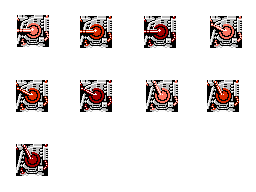
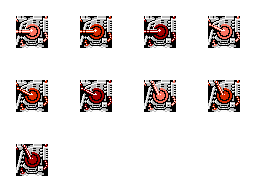
Fixed turret's animation

diff --git a/Contra/2DGame/ContraGame/ContraGame/Turret.cpp b/Contra/2DGame/ContraGame/ContraGame/Turret.cpp
@@ -19,69 +19,69 @@ enum PlayerAnims
 void Turret::init(const glm::ivec2 &tileMapPos, ShaderProgram &shaderProgram)
 {
 	bJumping = false;
-	spritesheet.loadFromFile("images/turret2.png", TEXTURE_PIXEL_FORMAT_RGBA);
-	sprite = Sprite::createSprite(glm::ivec2(64, 64), glm::vec2(0.111111111111111f, 0.25f), &spritesheet, &shaderProgram);
-	sprite->setNumberAnimations(12);
+	spritesheet.loadFromFile("images/turret3.png", TEXTURE_PIXEL_FORMAT_RGBA);
+	sprite = Sprite::createSprite(glm::ivec2(64, 64), glm::vec2(1 / 8.f, 1 / 8.f), &spritesheet, &shaderProgram);
+	sprite->setNumberAnimations(18);
 
 	sprite->setAnimationSpeed(DEGREE_0, 8);
-	sprite->addKeyframe(DEGREE_0, glm::vec2(0.f, 0.f));
-	sprite->addKeyframe(DEGREE_0, glm::vec2(0.11f, 0.f));
-	sprite->addKeyframe(DEGREE_0, glm::vec2(0.22f, 0.f));
+	sprite->addKeyframe(DEGREE_0, glm::vec2(0 / 8.f, 0 / 8.f));
+	sprite->addKeyframe(DEGREE_0, glm::vec2(1 / 8.f, 0 / 8.f));
+	sprite->addKeyframe(DEGREE_0, glm::vec2(2 / 8.f, 0 / 8.f));
 
 	sprite->setAnimationSpeed(DEGREE_30, 8);
-	sprite->addKeyframe(DEGREE_30, glm::vec2(0.66f, 0.75f));
-	sprite->addKeyframe(DEGREE_30, glm::vec2(0.77f, 0.75f));
-	sprite->addKeyframe(DEGREE_30, glm::vec2(0.88f, 0.75f));
+	sprite->addKeyframe(DEGREE_30, glm::vec2(1 / 8.f, 4 / 8.f));
+	sprite->addKeyframe(DEGREE_30, glm::vec2(2 / 8.f, 4 / 8.f));
+	sprite->addKeyframe(DEGREE_30, glm::vec2(3 / 8.f, 4 / 8.f));
 
 	sprite->setAnimationSpeed(DEGREE_50, 8);
-	sprite->addKeyframe(DEGREE_50, glm::vec2(0.33f, 0.75f));
-	sprite->addKeyframe(DEGREE_50, glm::vec2(0.44f, 0.75f));
-	sprite->addKeyframe(DEGREE_50, glm::vec2(0.55f, 0.75f));
+	sprite->addKeyframe(DEGREE_50, glm::vec2(6 / 8.f, 3 / 8.f));
+	sprite->addKeyframe(DEGREE_50, glm::vec2(7 / 8.f, 3 / 8.f));
+	sprite->addKeyframe(DEGREE_50, glm::vec2(0 / 8.f, 4 / 8.f));
 
 	sprite->setAnimationSpeed(DEGREE_90, 8);
-	sprite->addKeyframe(DEGREE_90, glm::vec2(0.f, 0.75f));
-	sprite->addKeyframe(DEGREE_90, glm::vec2(0.11f, 0.75f));
-	sprite->addKeyframe(DEGREE_90, glm::vec2(0.22f, 0.75f));
+	sprite->addKeyframe(DEGREE_90, glm::vec2(3 / 8.f, 3 / 8.f));
+	sprite->addKeyframe(DEGREE_90, glm::vec2(4 / 8.f, 3 / 8.f));
+	sprite->addKeyframe(DEGREE_90, glm::vec2(5 / 8.f, 3 / 8.f));
 
 	sprite->setAnimationSpeed(DEGREE_120, 8);
-	sprite->addKeyframe(DEGREE_120, glm::vec2(0.66f, 0.5f));
-	sprite->addKeyframe(DEGREE_120, glm::vec2(0.77f, 0.5f));
-	sprite->addKeyframe(DEGREE_120, glm::vec2(0.88f, 0.5f));
+	sprite->addKeyframe(DEGREE_120, glm::vec2(0 / 8.f, 3 / 8.f));
+	sprite->addKeyframe(DEGREE_120, glm::vec2(1 / 8.f, 3 / 8.f));
+	sprite->addKeyframe(DEGREE_120, glm::vec2(2 / 8.f, 3 / 8.f));
 
 	sprite->setAnimationSpeed(DEGREE_140, 8);
-	sprite->addKeyframe(DEGREE_140, glm::vec2(0.33f, 0.5f));
-	sprite->addKeyframe(DEGREE_140, glm::vec2(0.44f, 0.5f));
-	sprite->addKeyframe(DEGREE_140, glm::vec2(0.55f, 0.5f));
+	sprite->addKeyframe(DEGREE_140, glm::vec2(5 / 8.f, 2 / 8.f));
+	sprite->addKeyframe(DEGREE_140, glm::vec2(6 / 8.f, 2 / 8.f));
+	sprite->addKeyframe(DEGREE_140, glm::vec2(7 / 8.f, 2 / 8.f));
 
 	sprite->setAnimationSpeed(DEGREE_180, 8);
-	sprite->addKeyframe(DEGREE_180, glm::vec2(0.f, 0.5f));
-	sprite->addKeyframe(DEGREE_180, glm::vec2(0.11f, 0.5f));
-	sprite->addKeyframe(DEGREE_180, glm::vec2(0.22f, 0.5f));
+	sprite->addKeyframe(DEGREE_180, glm::vec2(2 / 8.f, 2 / 8.f));
+	sprite->addKeyframe(DEGREE_180, glm::vec2(3 / 8.f, 2 / 8.f));
+	sprite->addKeyframe(DEGREE_180, glm::vec2(4 / 8.f, 2 / 8.f));
 
 	sprite->setAnimationSpeed(DEGREE_210, 8);
-	sprite->addKeyframe(DEGREE_210, glm::vec2(0.66f, 0.25f));
-	sprite->addKeyframe(DEGREE_210, glm::vec2(0.77f, 0.25f));
-	sprite->addKeyframe(DEGREE_210, glm::vec2(0.88f, 0.25f));
+	sprite->addKeyframe(DEGREE_210, glm::vec2(7 / 8.f, 1 / 8.f));
+	sprite->addKeyframe(DEGREE_210, glm::vec2(0 / 8.f, 2 / 8.f));
+	sprite->addKeyframe(DEGREE_210, glm::vec2(1 / 8.f, 2 / 8.f));
 
 	sprite->setAnimationSpeed(DEGREE_230, 8);
-	sprite->addKeyframe(DEGREE_230, glm::vec2(0.33f, 0.25f));
-	sprite->addKeyframe(DEGREE_230, glm::vec2(0.44f, 0.25f));
-	sprite->addKeyframe(DEGREE_230, glm::vec2(0.55f, 0.25f));
+	sprite->addKeyframe(DEGREE_230, glm::vec2(4 / 8.f, 1 / 8.f));
+	sprite->addKeyframe(DEGREE_230, glm::vec2(5 / 8.f, 1 / 8.f));
+	sprite->addKeyframe(DEGREE_230, glm::vec2(6 / 8.f, 1 / 8.f));
 
 	sprite->setAnimationSpeed(DEGREE_270, 8);
-	sprite->addKeyframe(DEGREE_270, glm::vec2(0.f, 0.25f));
-	sprite->addKeyframe(DEGREE_270, glm::vec2(0.11f, 0.25f));
-	sprite->addKeyframe(DEGREE_270, glm::vec2(0.22f, 0.25f));
+	sprite->addKeyframe(DEGREE_270, glm::vec2(1 / 8.f, 1 / 8.f));
+	sprite->addKeyframe(DEGREE_270, glm::vec2(2 / 8.f, 1 / 8.f));
+	sprite->addKeyframe(DEGREE_270, glm::vec2(3 / 8.f, 1 / 8.f));
 
 	sprite->setAnimationSpeed(DEGREE_300, 8);
-	sprite->addKeyframe(DEGREE_300, glm::vec2(0.66f, 0.f));
-	sprite->addKeyframe(DEGREE_300, glm::vec2(0.77f, 0.f));
-	sprite->addKeyframe(DEGREE_300, glm::vec2(0.88f, 0.f));
+	sprite->addKeyframe(DEGREE_300, glm::vec2(6 / 8.f, 0 / 8.f));
+	sprite->addKeyframe(DEGREE_300, glm::vec2(7 / 8.f, 0 / 8.f));
+	sprite->addKeyframe(DEGREE_300, glm::vec2(0 / 8.f, 1 / 8.f));
 
 	sprite->setAnimationSpeed(DEGREE_320, 8);
-	sprite->addKeyframe(DEGREE_320, glm::vec2(0.33f, 0.f));
-	sprite->addKeyframe(DEGREE_320, glm::vec2(0.44f, 0.f));
-	sprite->addKeyframe(DEGREE_320, glm::vec2(0.55f, 0.f));
+	sprite->addKeyframe(DEGREE_320, glm::vec2(3 / 8.f, 0 / 8.f));
+	sprite->addKeyframe(DEGREE_320, glm::vec2(4 / 8.f, 0 / 8.f));
+	sprite->addKeyframe(DEGREE_320, glm::vec2(5 / 8.f, 0 / 8.f));
 
 
 	sprite->changeAnimation(6);
